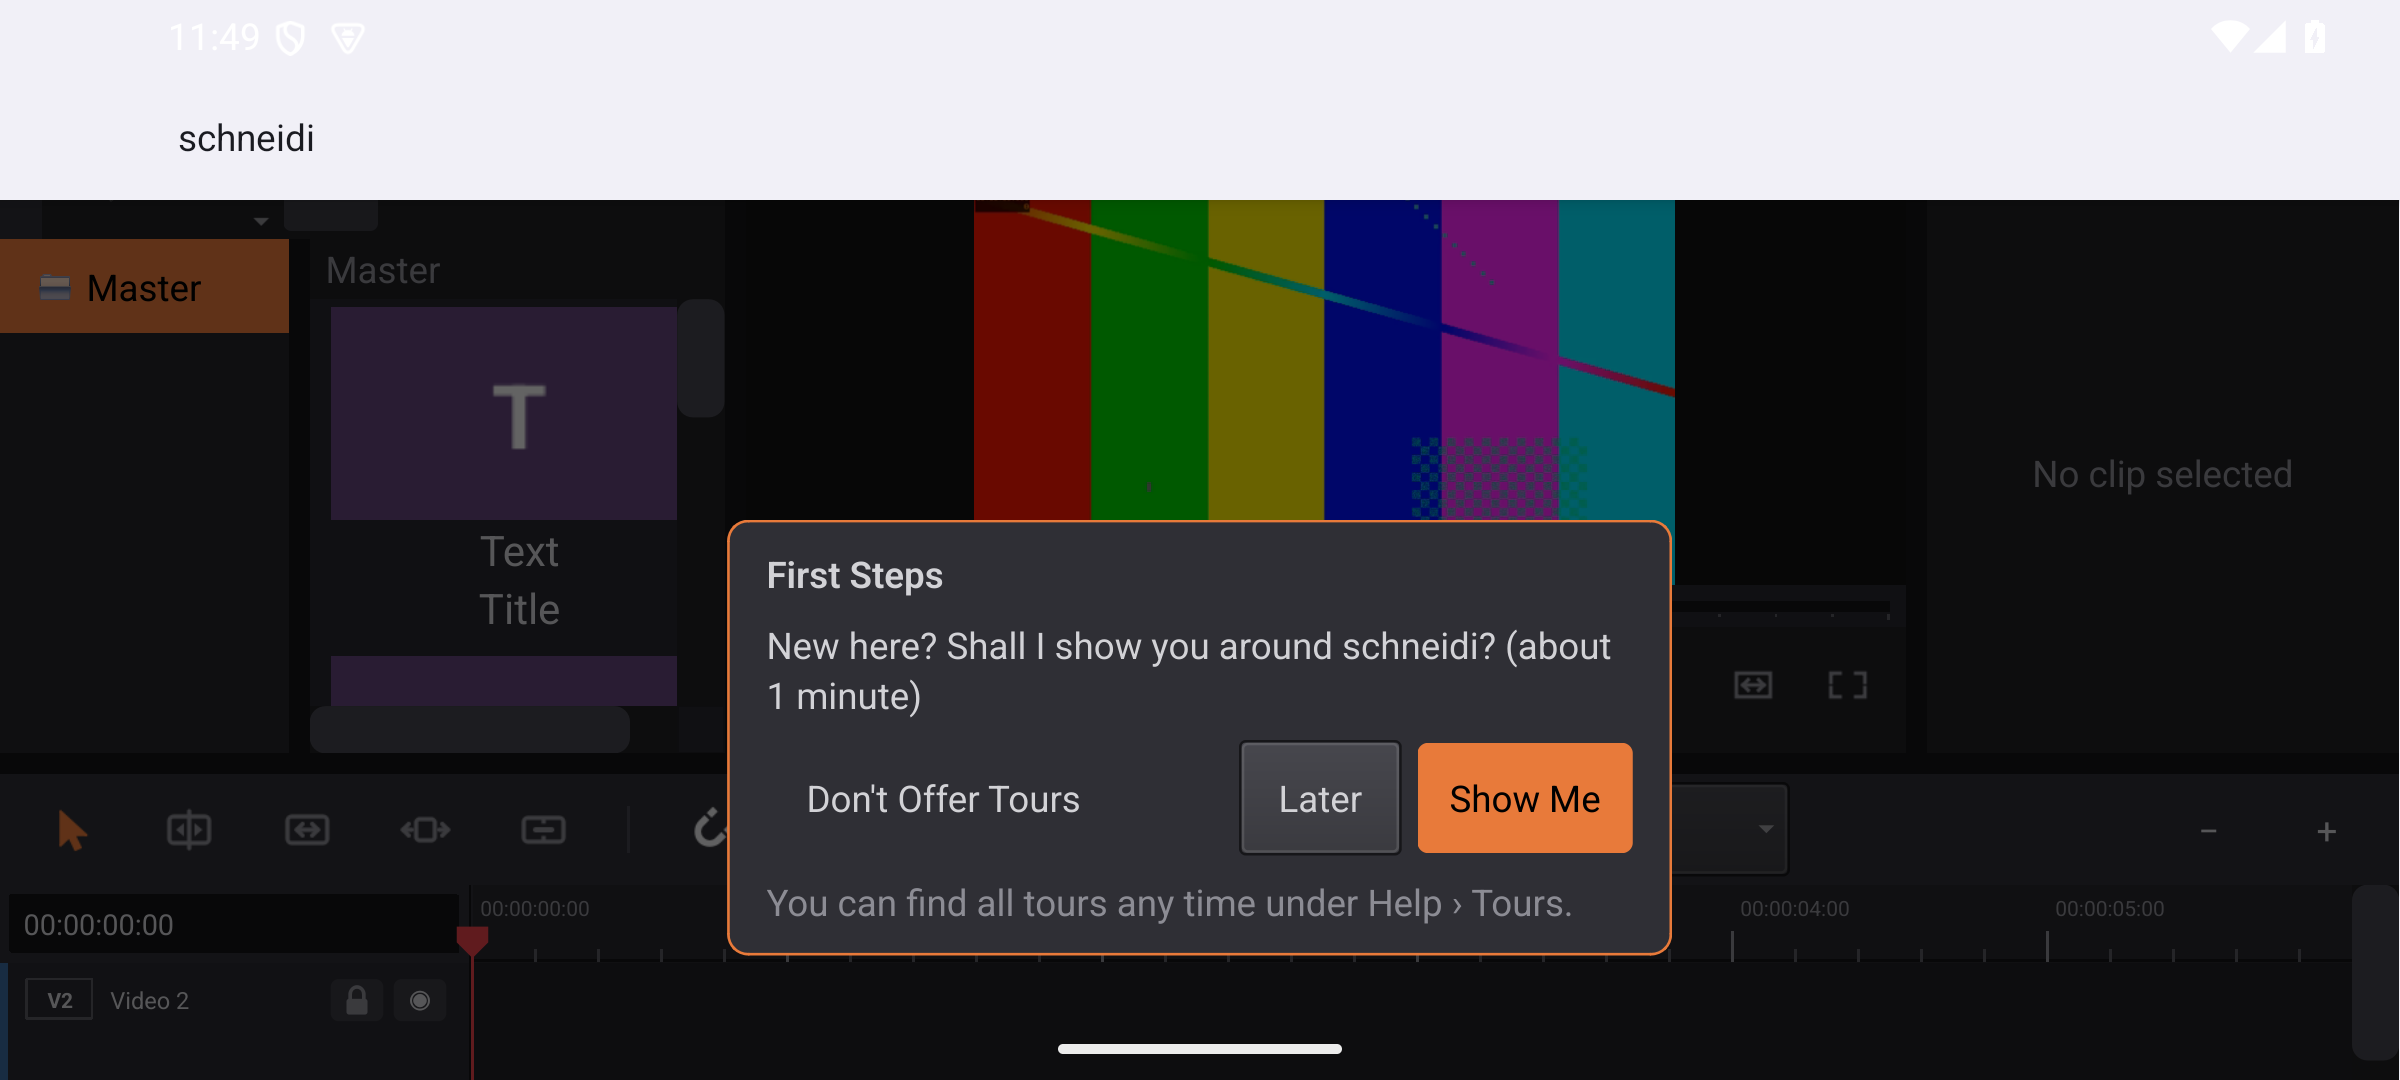
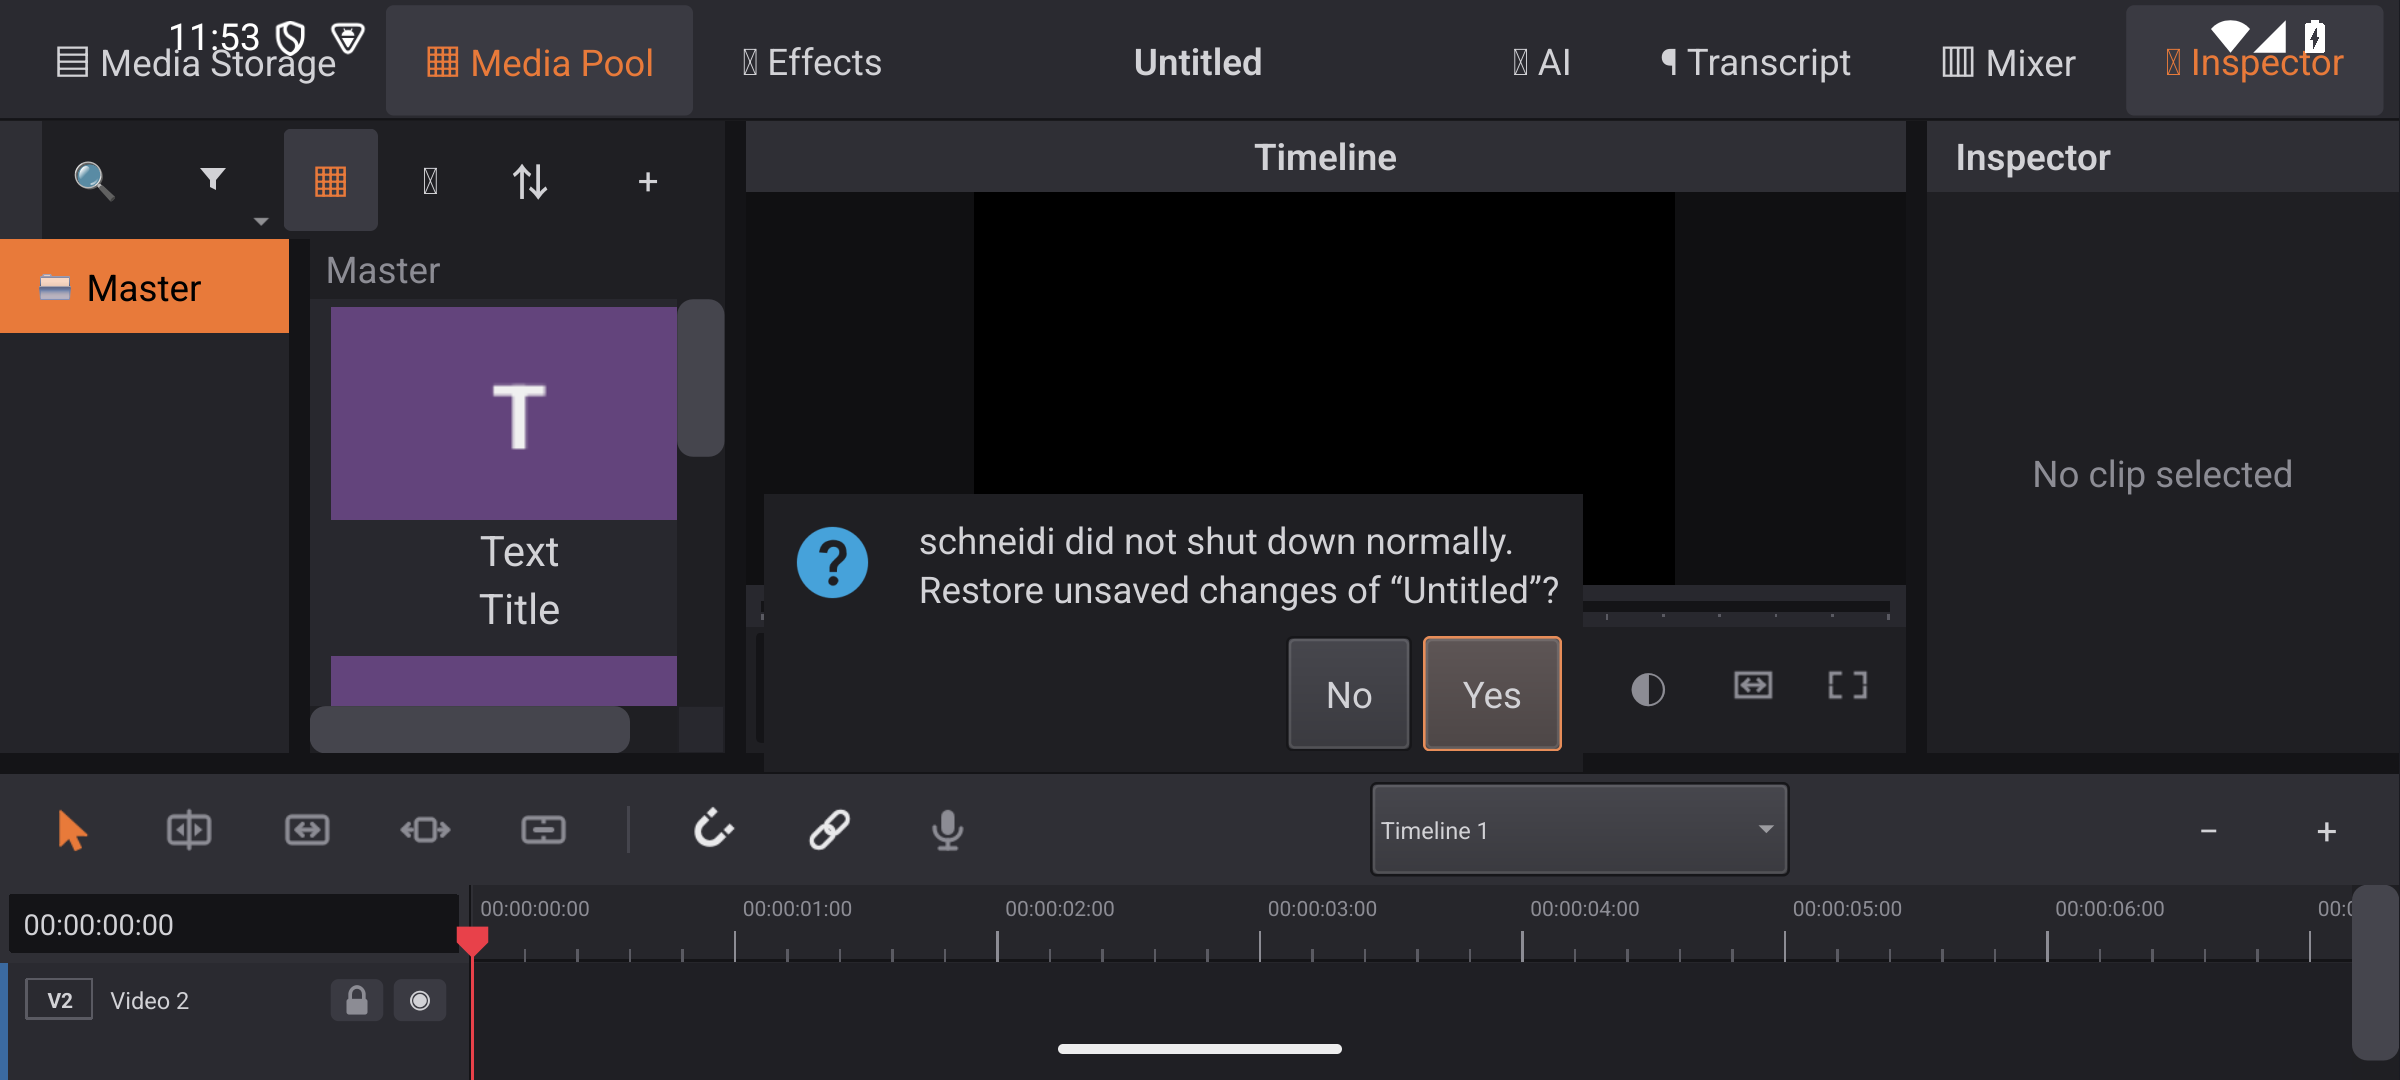
Touch: a finger on a child widget of a gesture surface reaches the child; a tap that focuses a text field opens the keyboard
Found in the Android emulator: a double tap on a track name opened the name field without the keyboard, and a tap
into the field closed it. Android: target SDK 34 (no forced edge to edge with Qt 6.8); hello app opens a Qt dialog.

diff --git a/src/ui/touch/TouchPhone.cpp b/src/ui/touch/TouchPhone.cpp
@@ -6,6 +6,7 @@
 #include <QAbstractItemView>
 #include <QApplication>
 #include <QDialog>
+#include <QElapsedTimer>
 #include <QInputMethod>
 #include <QKeyEvent>
 #include <QMouseEvent>
@@ -37,16 +38,39 @@ protected:
     {
         // The finger lifted on the focused text field (it just got the focus from this tap or had it already: the
         // keyboard may have been put away): the keyboard comes. The press gave the focus like a click before
-        if (e->type() != QEvent::MouseButtonRelease || !isTouch(static_cast<QMouseEvent*>(e))) return false;
+        // Also when the tap itself put the focus into a text field elsewhere (a double tap on a track name opens its
+        // name field, found in the Android emulator): the focus came within this tap, not by mouse or keyboard
+        switch (e->type()) {
+        case QEvent::FocusIn:
+            if (obj->isWidgetType()) {
+                m_focused = static_cast<QWidget*>(obj);
+                m_focusedAt.start();
+            }
+            return false;
+        case QEvent::KeyPress: m_focused = nullptr; return false;
+        case QEvent::MouseButtonPress:
+            if (!isTouch(static_cast<QMouseEvent*>(e))) m_focused = nullptr;
+            return false;
+        case QEvent::MouseButtonRelease: break;
+        default: return false;
+        }
+        if (!isTouch(static_cast<QMouseEvent*>(e))) return false;
         auto* w = qobject_cast<QWidget*>(obj);
         QWidget* f = QApplication::focusWidget(); // (a number field's text part has the field as its focus proxy)
-        if (!w || !f || (w != f && !f->isAncestorOf(w)) || !f->testAttribute(Qt::WA_InputMethodEnabled)
+        const bool focusedByTap = f && m_focused == f && m_focusedAt.isValid() && m_focusedAt.elapsed() < kTapFocusMs;
+        m_focused = nullptr;
+        if (!w || !f || (!focusedByTap && w != f && !f->isAncestorOf(w)) || !f->testAttribute(Qt::WA_InputMethodEnabled)
             || !f->inputMethodQuery(Qt::ImEnabled).toBool() || f->inputMethodQuery(Qt::ImReadOnly).toBool())
             return false;
         ++g_panelRequests;
         QTimer::singleShot(0, f, [] { QGuiApplication::inputMethod()->show(); }); // after the widget's own release
         return false;
     }
+
+private:
+    static constexpr int kTapFocusMs = 700; // a tap or double tap, not a field focused long before
+    QPointer<QWidget> m_focused; // the widget that last got the focus, until a key or a mouse button says otherwise
+    QElapsedTimer m_focusedAt;
 };
 
 class BackKeyFilter : public QObject {

diff --git a/src/ui/touch/TouchGestures.cpp b/src/ui/touch/TouchGestures.cpp
@@ -55,6 +55,15 @@ bool TouchGestures::touch(QTouchEvent* e)
 {
     const auto& pts = e->points();
     const QPointer<TouchGestures> alive(this);
+    // The finger landed on a child widget (the track name's text field, an overlay button): Qt offers the touch to
+    // the target because the child takes none. Not ours: left unaccepted, Qt makes the child's own mouse events of
+    // it (found in the Android emulator: a tap into the open name field closed it instead of placing the cursor)
+    if (e->type() == QEvent::TouchBegin && !pts.isEmpty() && m_target->childAt(pts.first().position().toPoint())) {
+        m_state = State::Idle;
+        m_hold->stop();
+        e->ignore();
+        return true;
+    }
     e->accept();
     if (e->type() == QEvent::TouchBegin) {
         m_device = e->pointingDevice();
